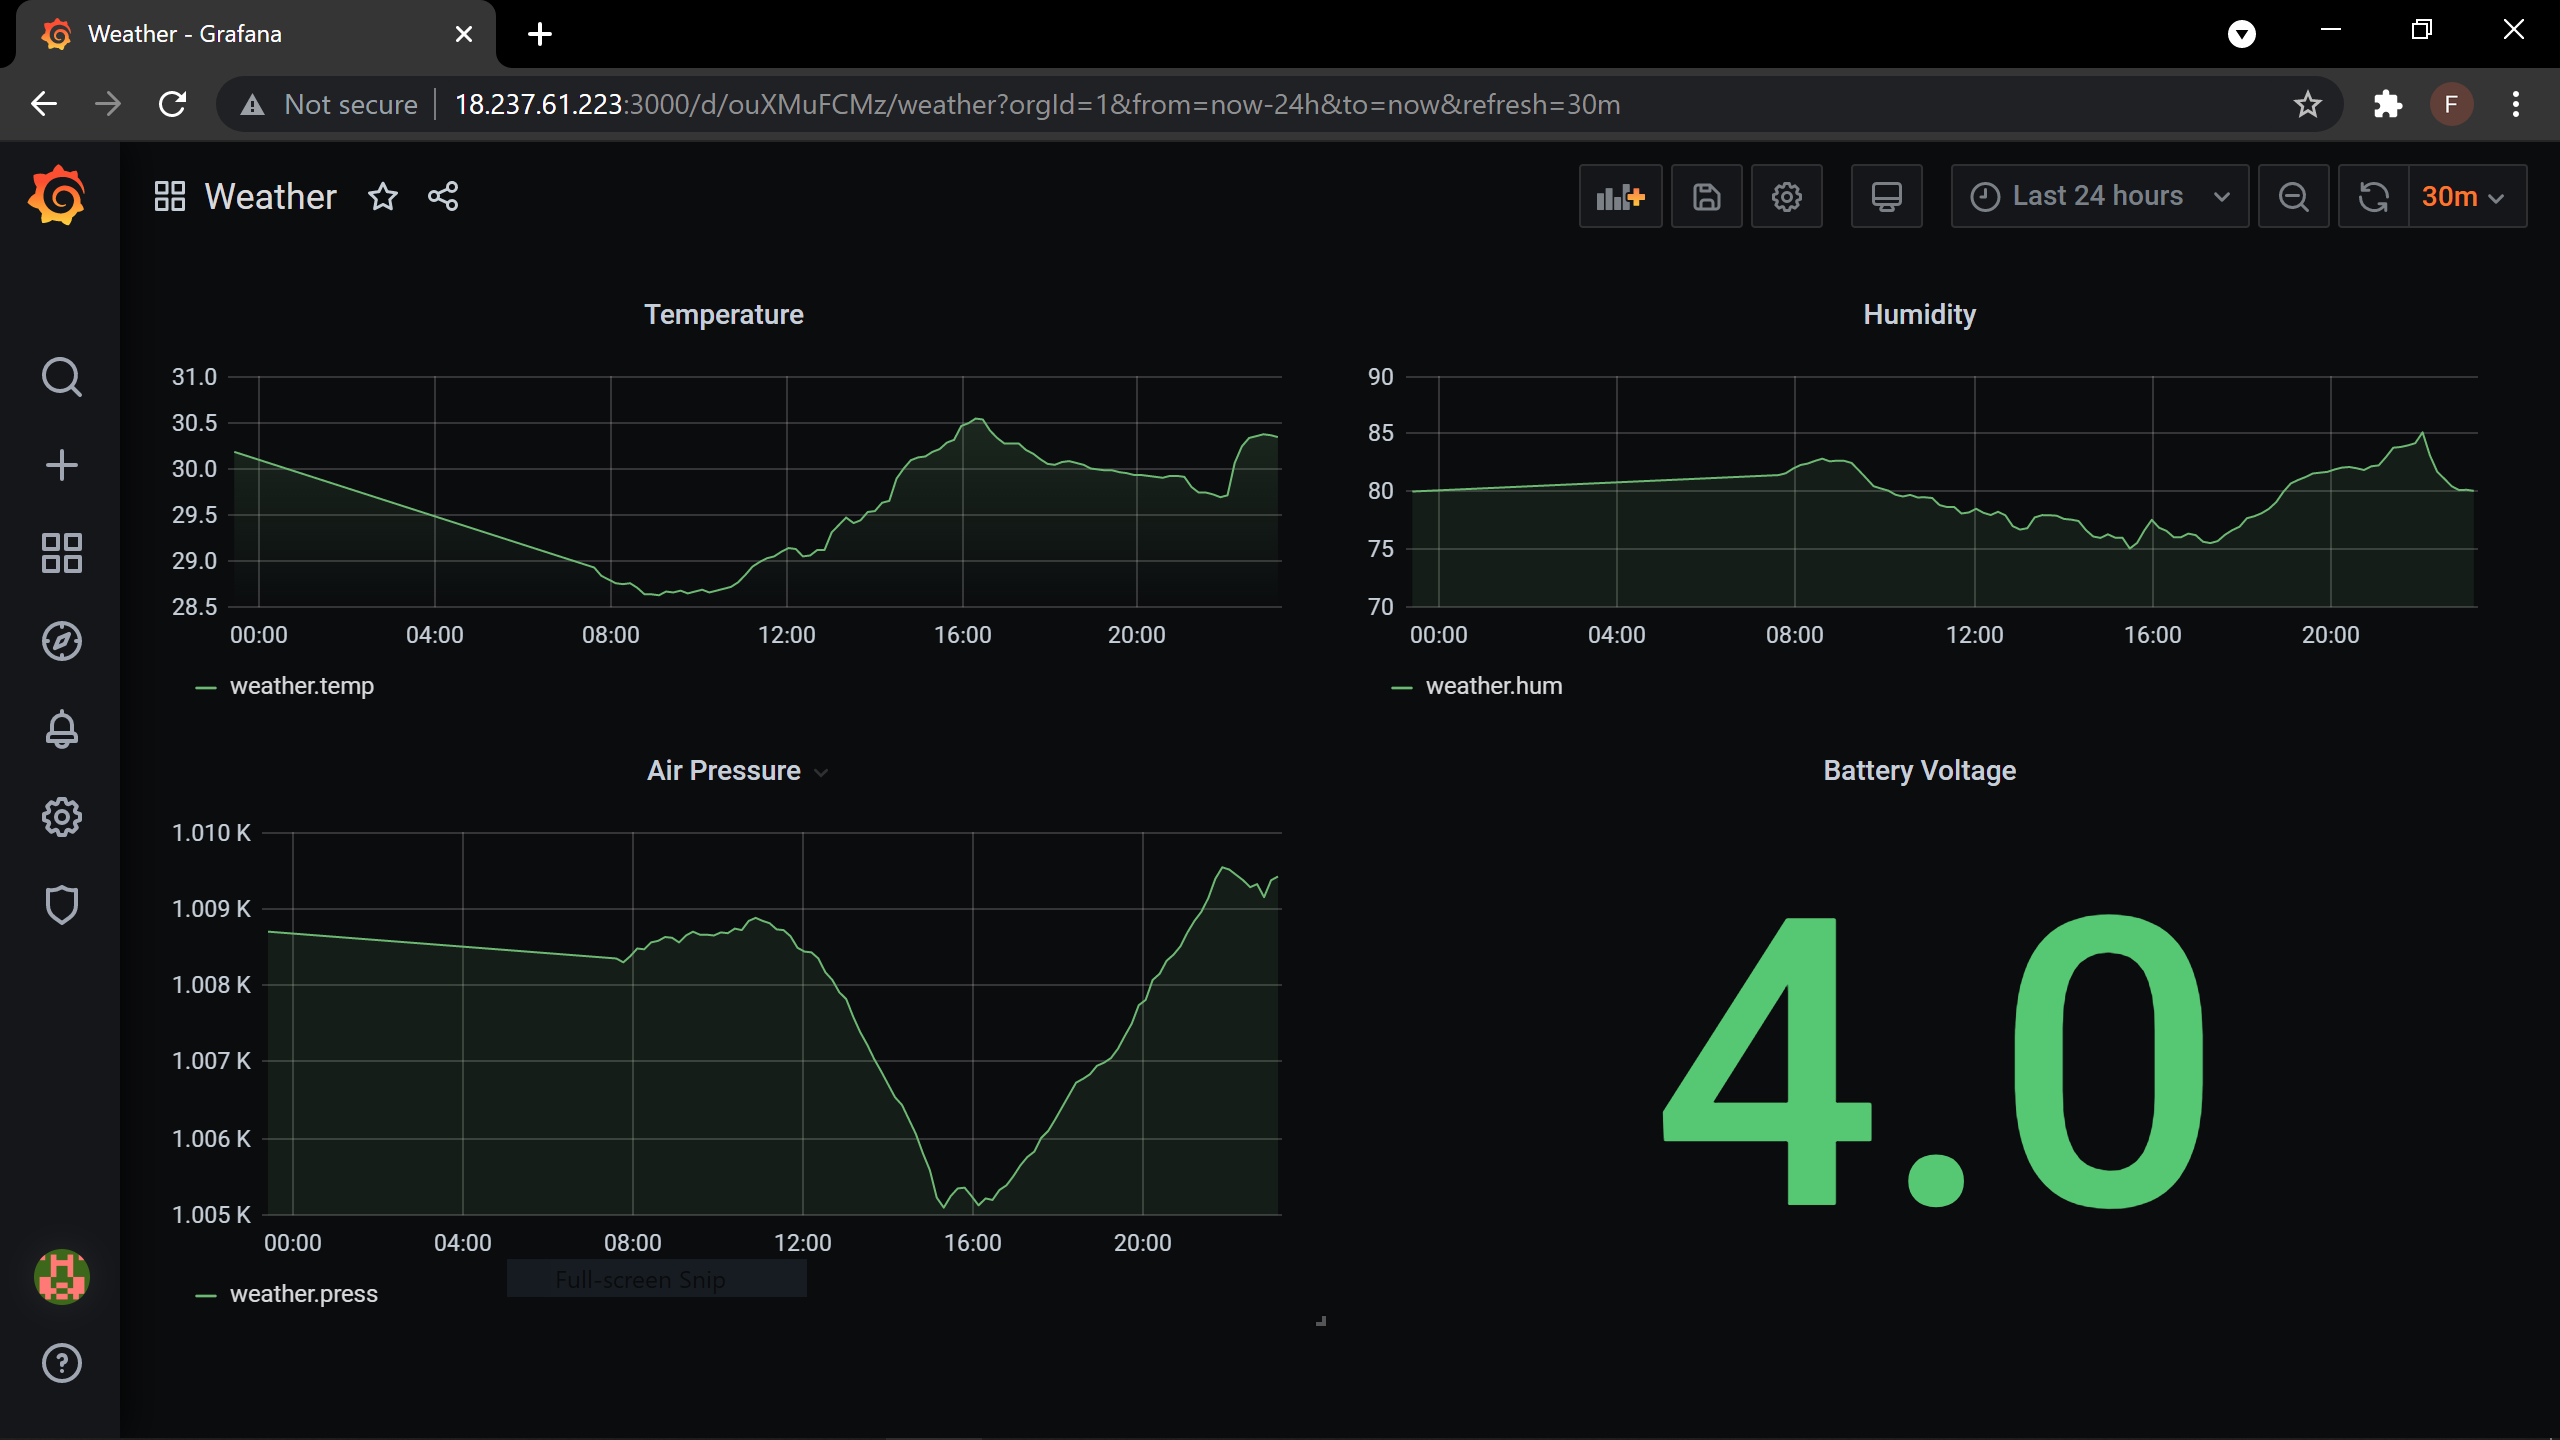
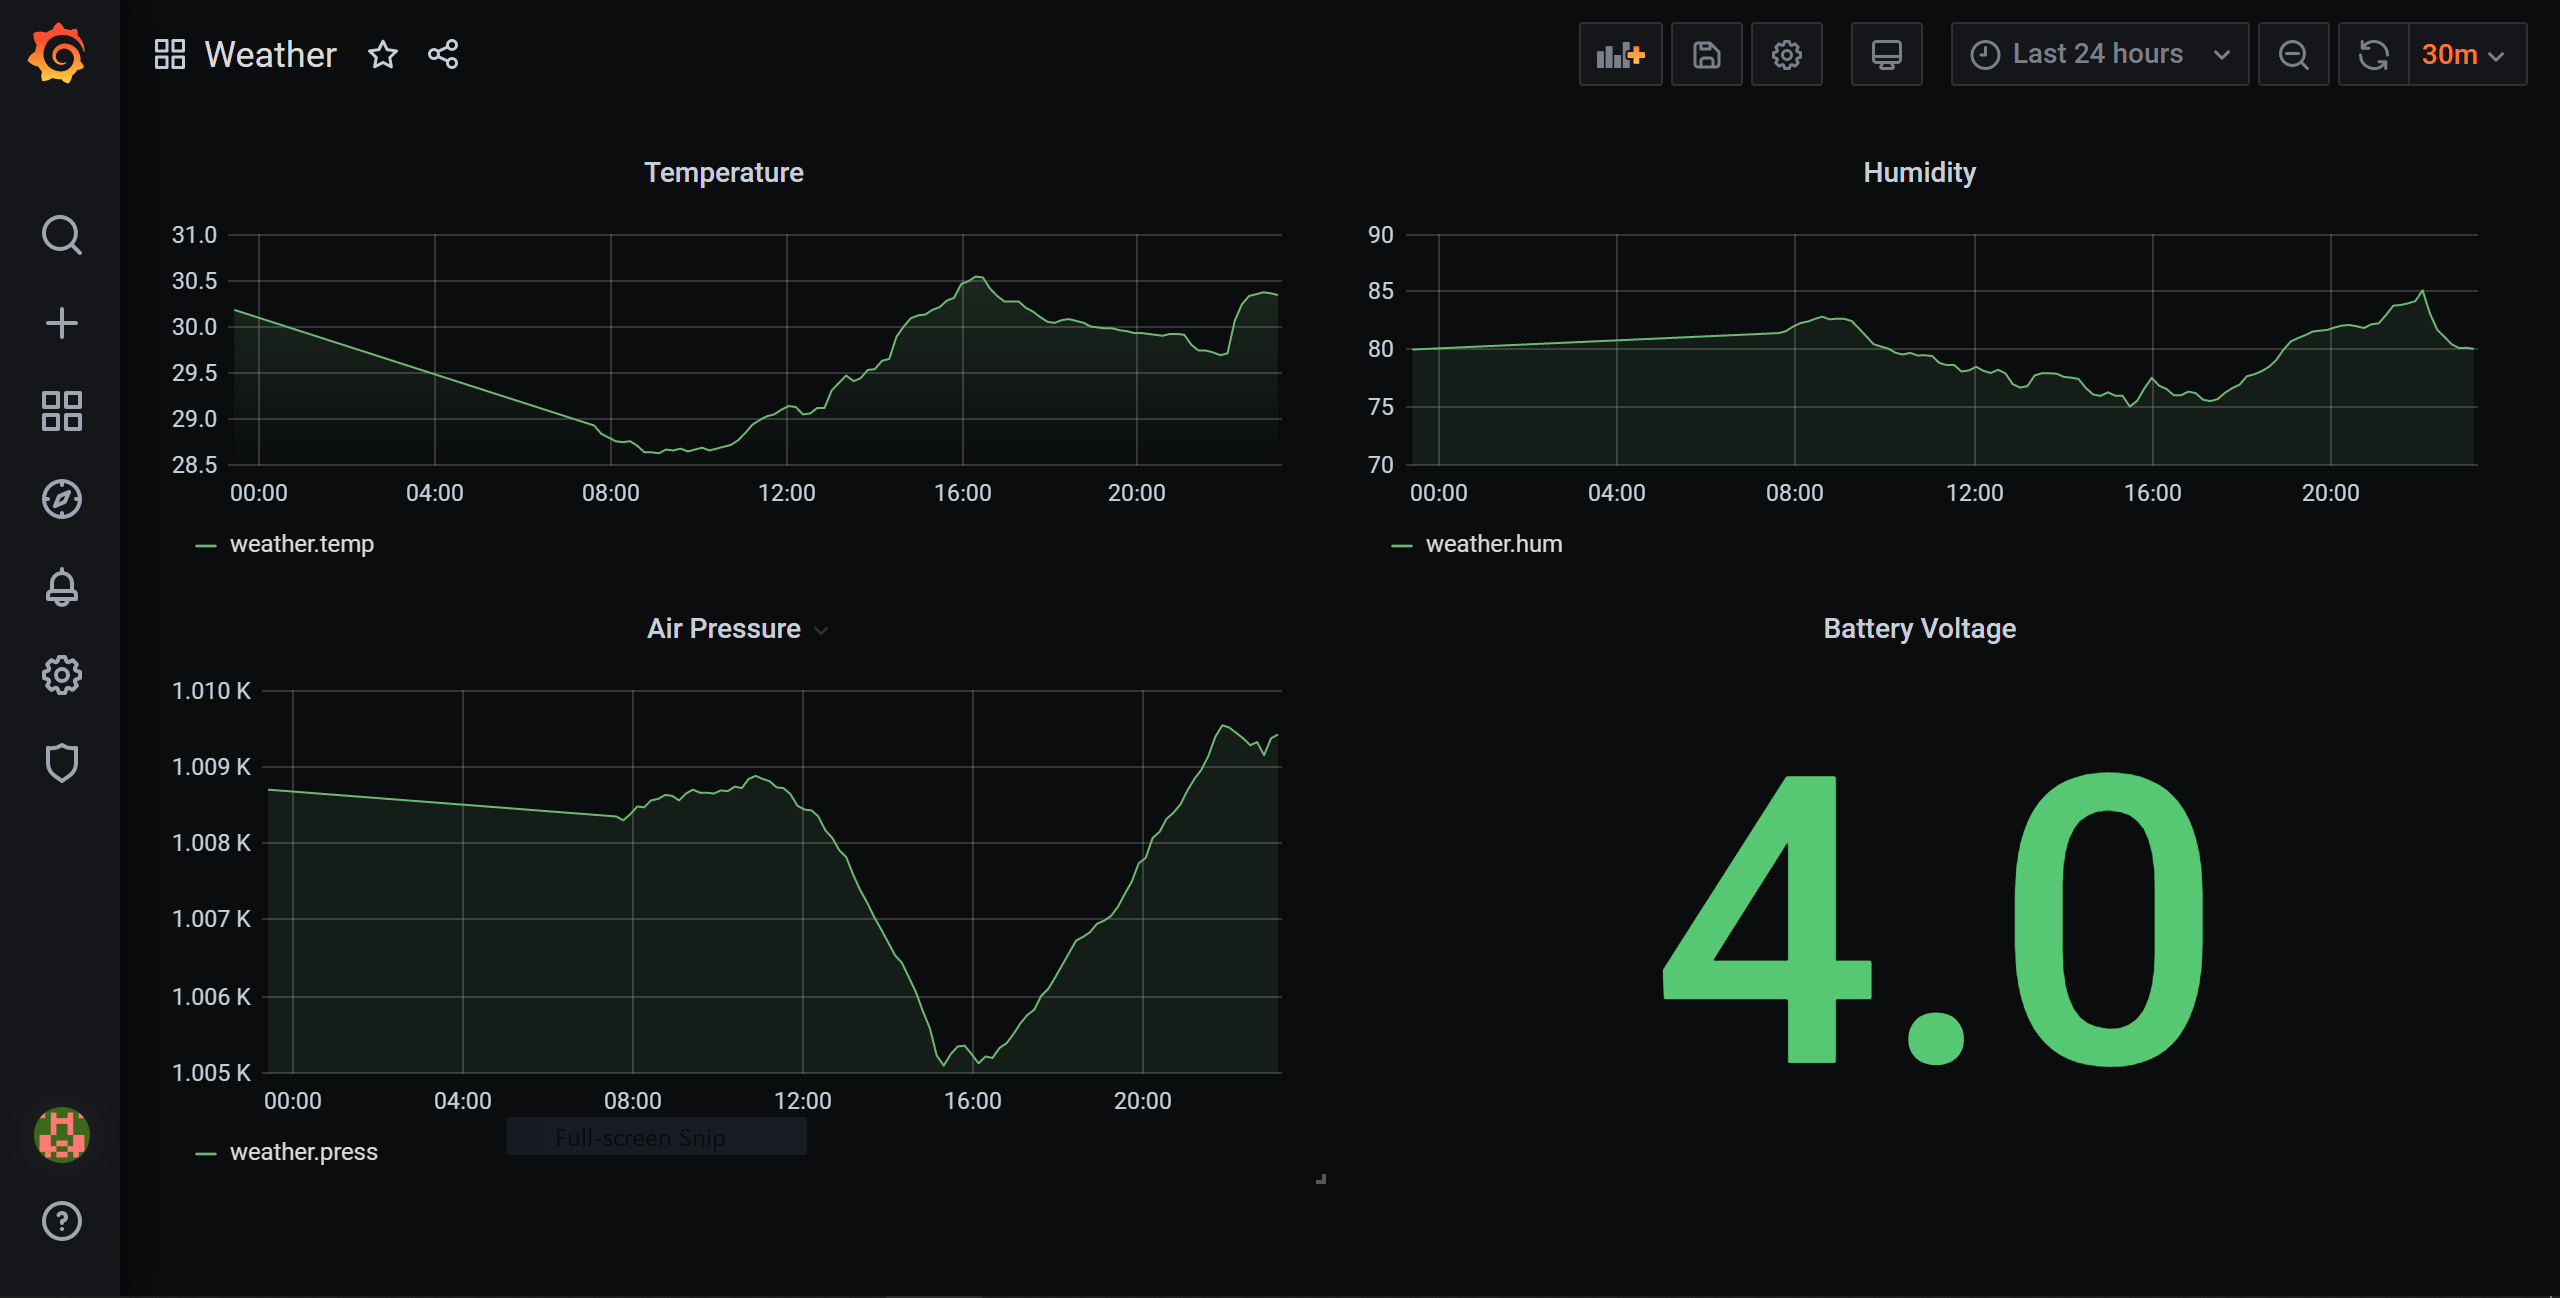
Remove photo metadata and a server address from a screenshot
- Strip EXIF/XMP from the six JPEGs that carried it (phone model,
  capture time, GPS date/time stamps; no coordinates). Done by
  dropping the APP1 segments, so the image data is unchanged.
- Crop the browser tab and address bar off the Grafana screenshot,
  which showed the server's public IP, port and dashboard path.
- Drop the numbers strip under the hero.

diff --git a/index.html b/index.html
@@ -8,7 +8,7 @@
 <link rel="preconnect" href="https://fonts.googleapis.com">
 <link rel="preconnect" href="https://fonts.gstatic.com" crossorigin>
 <link rel="stylesheet" href="https://fonts.googleapis.com/css2?family=JetBrains+Mono:wght@400;500&amp;family=Manrope:wght@400;500;600;700;800&amp;display=swap">
-<link rel="stylesheet" href="style.css?v=3">
+<link rel="stylesheet" href="style.css?v=4">
 </head>
 <body>
 
@@ -44,15 +44,6 @@
     <img src="assets/images/low-power-weather-parameters-monitoring-device_9.jpeg" alt="Weather station enclosure with its small display" width="1600" height="900">
     <img src="assets/images/robotic_arm_2.jpeg" alt="Three-axis robot arm on a yellow frame" width="902" height="1221">
   </div>
-</section>
-
-<section class="wrap" aria-label="Highlights">
-  <dl class="stats">
-    <div><dt>9 months</dt><dd>on one 18650 cell, measured on the LoRa weather station</dd></div>
-    <div><dt>15.6 tok/s</dt><dd>from a 1.84M-parameter language model on an ESP32-S3</dd></div>
-    <div><dt>3.84 FPS/W</dt><dd>YOLO11-OBB nano on a Khadas Edge 2, the best of three boards</dd></div>
-    <div><dt>10 ms</dt><dd>loop for three cascaded PID controllers on a balancing robot</dd></div>
-  </dl>
 </section>
 
 <section id="work" class="section wrap">
@@ -175,7 +166,7 @@
               <figcaption>The node and gateway enclosures.</figcaption>
             </figure>
             <figure>
-              <div class="frame dark r-4x3"><img src="assets/images/low-power-weather-parameters-monitoring-device_5.png" alt="Grafana dashboard with weather graphs" loading="lazy" width="2560" height="1440"></div>
+              <div class="frame dark r-4x3"><img src="assets/images/low-power-weather-parameters-monitoring-device_5.png" alt="Grafana dashboard with weather graphs" loading="lazy" width="2560" height="1298"></div>
               <figcaption>Readings in Grafana.</figcaption>
             </figure>
           </div>

diff --git a/style.css b/style.css
@@ -158,28 +158,6 @@ h1 {
     background: var(--paper-2);
 }
 
-/* Highlights */
-.stats {
-    display: grid;
-    grid-template-columns: repeat(4, minmax(0, 1fr));
-    margin: 0;
-    border-top: 1px solid var(--line);
-    border-bottom: 1px solid var(--line);
-}
-
-.stats div { padding: 1.4rem 1.5rem 1.5rem 0; }
-.stats div + div { padding-left: 1.5rem; border-left: 1px solid var(--line); }
-
-.stats dt {
-    color: var(--ink);
-    font-size: clamp(1.5rem, 2.4vw, 2rem);
-    font-weight: 800;
-    letter-spacing: -0.03em;
-    line-height: 1.15;
-}
-
-.stats dd { margin: 0.35rem 0 0; color: var(--muted); font-size: 0.875rem; line-height: 1.45; }
-
 /* Sections */
 .section { padding-top: clamp(4rem, 8vw, 6rem); padding-bottom: clamp(1rem, 3vw, 2rem); }
 
@@ -421,9 +399,6 @@ tbody tr:last-child td { border-bottom-color: var(--ink); }
 @media (max-width: 1000px) {
     .hero { grid-template-columns: minmax(0, 1fr); }
     .hero-tiles { grid-template-columns: repeat(4, minmax(0, 1fr)); }
-    .stats { grid-template-columns: repeat(2, minmax(0, 1fr)); }
-    .stats div:nth-child(3) { padding-left: 0; border-left: 0; }
-    .stats div:nth-child(n+3) { border-top: 1px solid var(--line); }
     .cards.three { grid-template-columns: repeat(2, minmax(0, 1fr)); }
 }
 
@@ -435,8 +410,5 @@ tbody tr:last-child td { border-bottom-color: var(--ink); }
 }
 
 @media (max-width: 480px) {
-    .stats { grid-template-columns: minmax(0, 1fr); }
-    .stats div, .stats div + div { padding-left: 0; border-left: 0; }
-    .stats div + div { border-top: 1px solid var(--line); }
     .tile figcaption { font-size: 0.8125rem; }
 }
